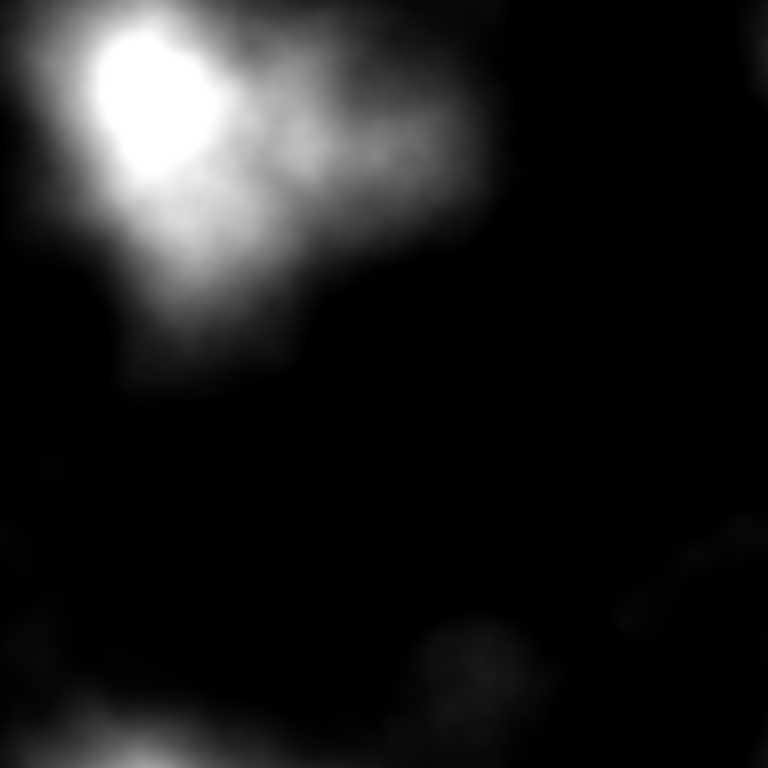
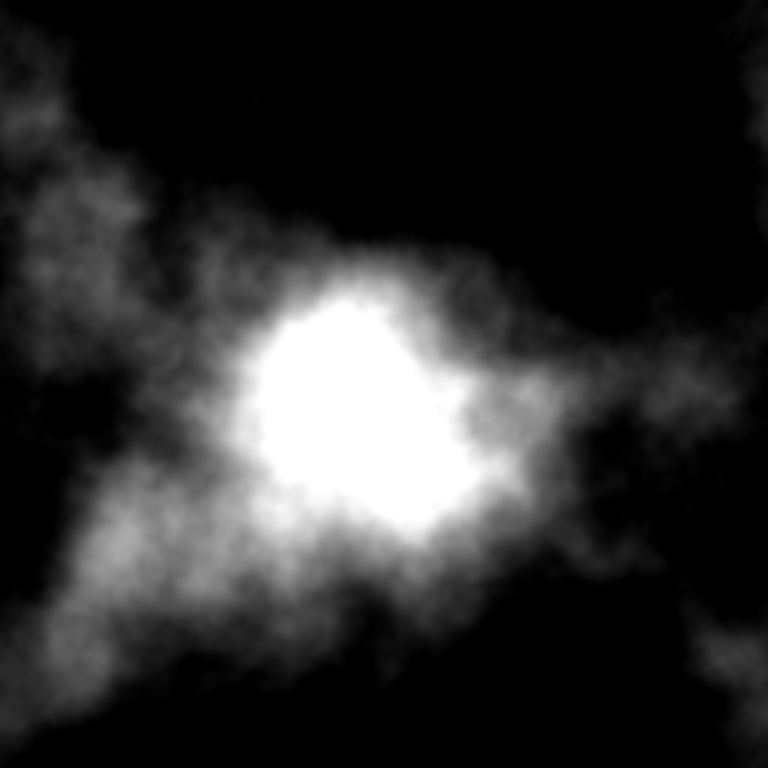
Mission clouds: more visible - wispier texture, faster drift (34s/52s), higher opacity

diff --git a/index.html b/index.html
@@ -63,10 +63,10 @@
   @media (prefers-reduced-motion:reduce){ .bgvid{display:none} }
   /* drifting cloud layers (Mission) - base image + moon stay static */
   .clouds{position:absolute;inset:0;z-index:0;pointer-events:none;background-repeat:repeat;mix-blend-mode:screen;background-image:url('media/photos/clouds.png')}
-  .clouds.c1{background-size:1100px 1100px;opacity:.20;animation:cloudA 85s linear infinite}
-  .clouds.c2{background-size:1650px 1650px;opacity:.12;animation:cloudB 140s linear infinite}
-  @keyframes cloudA{from{background-position:0 0}to{background-position:1100px 0}}
-  @keyframes cloudB{from{background-position:0 0}to{background-position:-1650px 0}}
+  .clouds.c1{background-size:1000px 1000px;opacity:.38;animation:cloudA 34s linear infinite}
+  .clouds.c2{background-size:1500px 1500px;opacity:.24;animation:cloudB 52s linear infinite}
+  @keyframes cloudA{from{background-position:0 0}to{background-position:1000px 0}}
+  @keyframes cloudB{from{background-position:0 0}to{background-position:-1500px 0}}
   @media (prefers-reduced-motion:reduce){ .clouds{animation:none!important;opacity:.08} }
   /* --- slide-specific video-bg treatments (2026-09-09) --- */
   .s4card{position:relative;z-index:2;align-self:center;text-align:center;max-width:min(720px,80cqw);padding:clamp(24px,3.8cqh,44px) clamp(28px,3.4cqw,52px);border-radius:20px;background:rgba(8,10,16,.34);-webkit-backdrop-filter:blur(16px) saturate(1.08);backdrop-filter:blur(16px) saturate(1.08);border:1px solid rgba(255,255,255,.14);box-shadow:0 24px 70px rgba(0,0,0,.5)}
